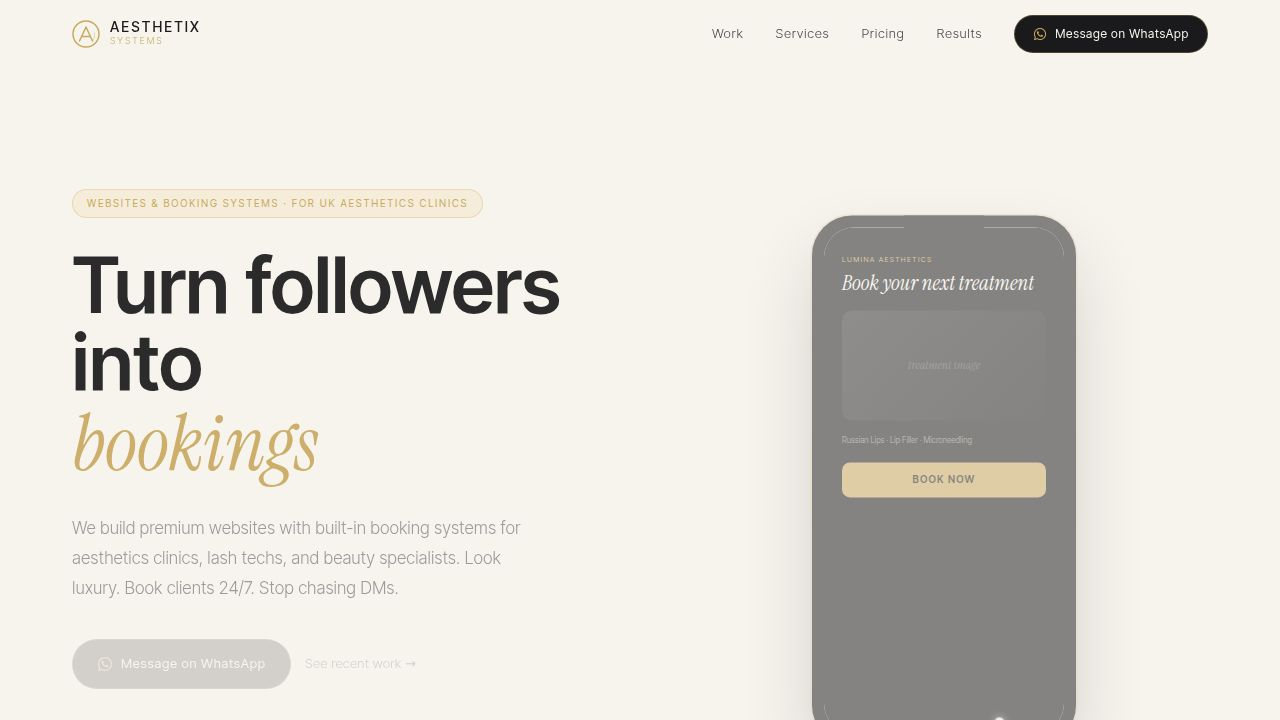
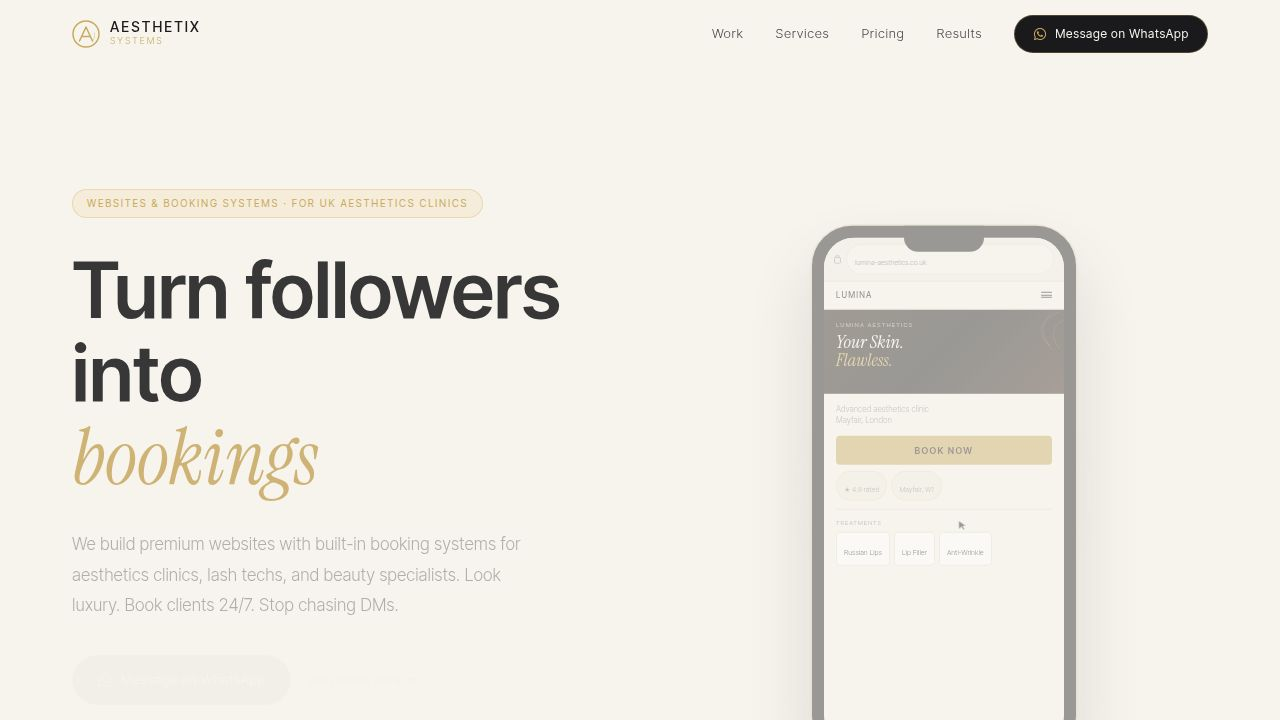
Rearrange reviews to display them in a clean grid format
Update the testimonials section to use a CSS grid layout, displaying reviews side-by-side instead of a horizontal scroll.

Replit-Commit-Author: Agent
Replit-Commit-Session-Id: 2e30ccf7-1f1b-4fd5-824b-6b3b71900477
Replit-Commit-Checkpoint-Type: full_checkpoint
Replit-Commit-Event-Id: ab551081-5289-4718-b69d-f0ee7b64bb38
Replit-Commit-Screenshot-Url: https://storage.googleapis.com/screenshot-production-us-central1/52372a35-586d-48e5-8519-69f121e412d8/2e30ccf7-1f1b-4fd5-824b-6b3b71900477/o6ZNn0H
Replit-Helium-Checkpoint-Created: true

diff --git a/artifacts/aesthetix/src/pages/Home.tsx b/artifacts/aesthetix/src/pages/Home.tsx
@@ -983,23 +983,32 @@ function Testimonials() {
         <FadeIn delay={0.1} style={{ marginBottom: 48 }}>
           <SectionHead regular="What happens when your site" italic="actually works" size="clamp(2rem,4vw,3rem)" />
         </FadeIn>
-        <div className={isMobile ? '' : 'testimonial-scroll'} style={isMobile ? { display: 'flex', flexDirection: 'column', gap: 20 } : {}}>
+        <div style={{ display: 'grid', gridTemplateColumns: isMobile ? '1fr' : '1fr 1fr', gap: isMobile ? 16 : 24, alignItems: 'stretch' }}>
           {reviews.map((r, i) => (
-            <FadeIn key={i} delay={i * 0.1} style={{ minWidth: isMobile ? undefined : 340, flexShrink: 0 }}>
-              <div style={{ background: surface, border: `1px solid ${line}`, borderRadius: 14, padding: 28, boxShadow: '0 4px 20px rgba(26,26,28,0.06)', height: '100%' }}>
-                <span style={{ fontFamily: DISP, fontStyle: 'italic', fontSize: '4rem', color: gold, opacity: 0.28, lineHeight: 0, display: 'block', marginBottom: 18 }}>"</span>
-                <p style={{ fontFamily: DISP, fontStyle: 'italic', fontSize: '1.12rem', color: charcoal, lineHeight: 1.67, margin: '0 0 20px' }}>{r.q}</p>
-                <div style={{ display: 'flex', alignItems: 'center', justifyContent: 'space-between' }}>
-                  <div style={{ display: 'flex', alignItems: 'center', gap: 10 }}>
-                    <div style={{ width: 32, height: 32, borderRadius: '50%', background: gold, display: 'flex', alignItems: 'center', justifyContent: 'center' }}>
-                      <span style={{ fontFamily: BODY, fontWeight: 500, fontSize: 12, color: charcoal }}>{r.init}</span>
-                    </div>
-                    <div>
-                      <p style={{ fontFamily: BODY, fontWeight: 400, fontSize: 12, color: charcoal, margin: 0 }}>{r.name}</p>
-                      <p style={{ fontFamily: BODY, fontWeight: 300, fontSize: 11, color: inkMute, margin: 0 }}>{r.biz}</p>
-                    </div>
+            <FadeIn key={i} delay={i * 0.08}>
+              <div style={{
+                background: i === 1 ? charcoal : surface,
+                border: i === 1 ? `1px solid rgba(201,169,97,0.3)` : `1px solid ${line}`,
+                borderRadius: 16,
+                padding: isMobile ? '24px 22px' : '32px 32px',
+                display: 'flex',
+                flexDirection: 'column',
+                justifyContent: 'space-between',
+                gap: 20,
+                height: '100%',
+              }}>
+                <div>
+                  <span style={{ fontFamily: BODY, fontSize: isMobile ? 13 : 14, color: gold, letterSpacing: '0.04em', display: 'block', marginBottom: 16 }}>★★★★★</span>
+                  <p style={{ fontFamily: DISP, fontStyle: 'italic', fontSize: isMobile ? '1.05rem' : '1.15rem', color: i === 1 ? cream : charcoal, lineHeight: 1.7, margin: 0 }}>{r.q}</p>
+                </div>
+                <div style={{ display: 'flex', alignItems: 'center', gap: 12, paddingTop: 20, borderTop: `1px solid ${i === 1 ? 'rgba(201,169,97,0.18)' : line}` }}>
+                  <div style={{ width: 36, height: 36, borderRadius: '50%', background: i === 1 ? 'rgba(201,169,97,0.18)' : goldTint, border: `1px solid ${i === 1 ? 'rgba(201,169,97,0.4)' : 'rgba(201,169,97,0.25)'}`, display: 'flex', alignItems: 'center', justifyContent: 'center', flexShrink: 0 }}>
+                    <span style={{ fontFamily: BODY, fontWeight: 500, fontSize: 13, color: gold }}>{r.init}</span>
                   </div>
-                  <span style={{ fontFamily: BODY, fontSize: 12, color: gold }}>★★★★★</span>
+                  <div>
+                    <p style={{ fontFamily: BODY, fontWeight: 500, fontSize: 13, color: i === 1 ? cream : charcoal, margin: 0 }}>{r.name}</p>
+                    <p style={{ fontFamily: BODY, fontWeight: 300, fontSize: 11, color: i === 1 ? 'rgba(247,244,238,0.45)' : inkMute, margin: 0 }}>{r.biz}</p>
+                  </div>
                 </div>
               </div>
             </FadeIn>